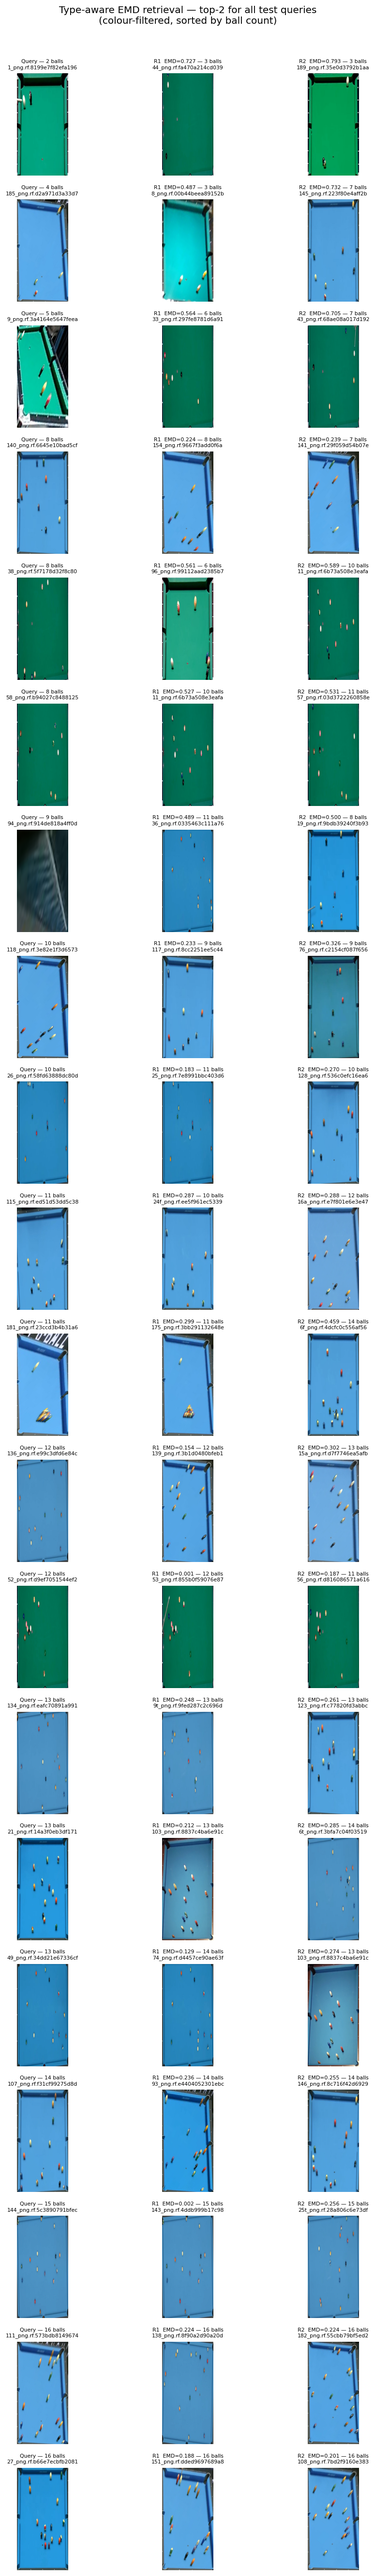
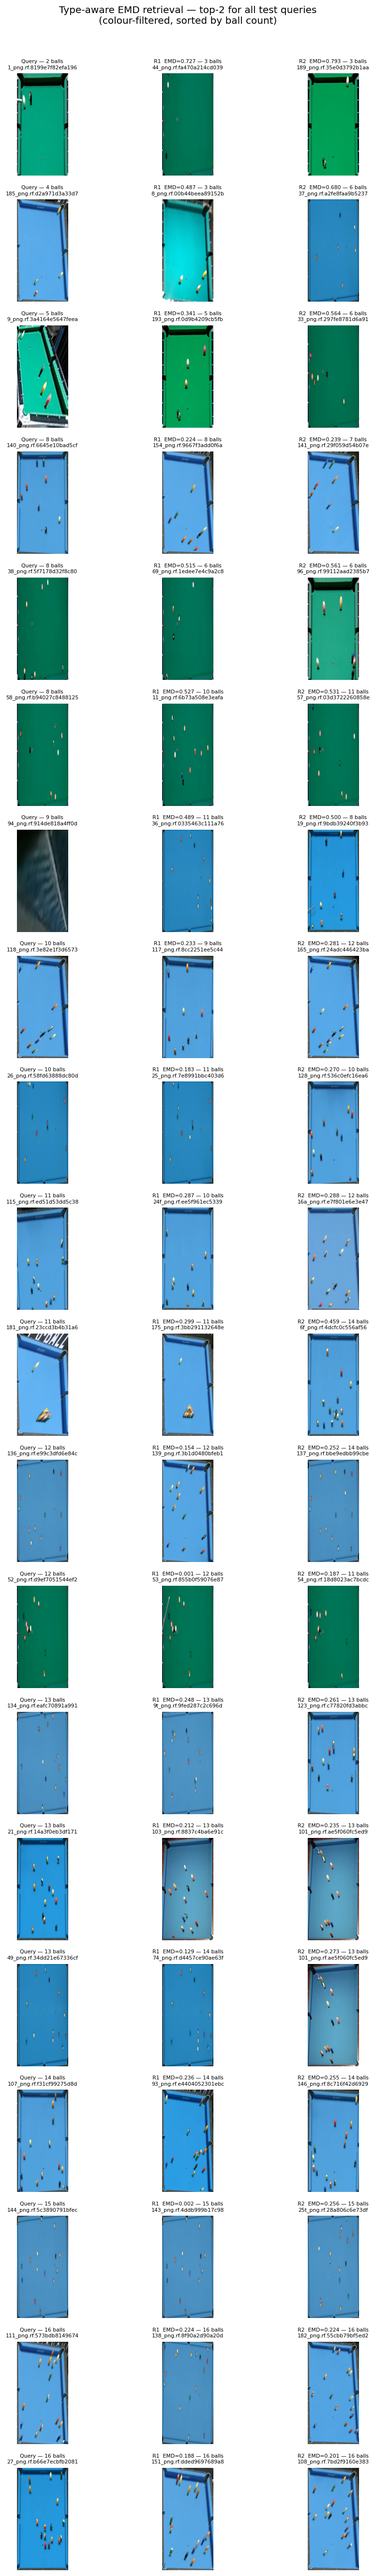
e4, task 3.2 with triplets

diff --git a/models/eval.py b/models/eval.py
@@ -1,0 +1,97 @@
+"""
+Task 2 — Evaluation script.
+
+Compares model predictions (output JSON) against ground-truth CSV and writes
+a metrics CSV with one row per image plus a summary row at the end.
+
+Usage:
+    python models/eval.py \
+        --predictions models/output.json \
+        --ground-truth data/ground_truth.csv \
+        --output models/json_metrics.csv
+"""
+
+import argparse
+import csv
+import json
+from pathlib import Path
+
+
+def evaluate(predictions_json: str, ground_truth_csv: str, output_csv: str) -> None:
+    # ── Load predictions ───────────────────────────────────────────────────────
+    with open(predictions_json) as f:
+        pred_data = json.load(f)
+    preds = {Path(r["image_path"]).name: int(r["num_balls"]) for r in pred_data}
+
+    # ── Load ground truth ──────────────────────────────────────────────────────
+    gt = {}
+    with open(ground_truth_csv) as f:
+        for row in csv.DictReader(f):
+            gt[row["image_id"]] = int(row["num_balls"])
+
+    # ── Match and compute per-image metrics ───────────────────────────────────
+    rows = []
+    unmatched = []
+    for name, pred in sorted(preds.items()):
+        if name not in gt:
+            unmatched.append(name)
+            continue
+        true     = gt[name]
+        error    = pred - true
+        abs_err  = abs(error)
+        rows.append({
+            "image_id":   name,
+            "true_count": true,
+            "pred_count": pred,
+            "error":      error,
+            "abs_error":  abs_err,
+            "exact":      int(abs_err == 0),
+            "off1":       int(abs_err <= 1),
+        })
+
+    if unmatched:
+        print(f"Warning: {len(unmatched)} predictions had no ground-truth match: {unmatched}")
+
+    n         = len(rows)
+    mae       = sum(r["abs_error"] for r in rows) / n
+    exact     = sum(r["exact"]     for r in rows) / n
+    off1      = sum(r["off1"]      for r in rows) / n
+    mean_err  = sum(r["error"]     for r in rows) / n
+
+    # ── Write CSV ──────────────────────────────────────────────────────────────
+    fields = ["image_id", "true_count", "pred_count", "error", "abs_error", "exact", "off1"]
+
+    with open(output_csv, "w", newline="") as f:
+        writer = csv.DictWriter(f, fieldnames=fields)
+        writer.writeheader()
+        writer.writerows(rows)
+        # Summary row
+        writer.writerow({
+            "image_id":   f"SUMMARY ({n} images)",
+            "true_count": "",
+            "pred_count": "",
+            "error":      f"{mean_err:+.4f}",
+            "abs_error":  f"{mae:.4f}",
+            "exact":      f"{exact:.2%}",
+            "off1":       f"{off1:.2%}",
+        })
+
+    print(f"Images evaluated : {n}")
+    print(f"MAE              : {mae:.4f}")
+    print(f"Exact accuracy   : {exact:.2%}")
+    print(f"Off-by-1         : {off1:.2%}")
+    print(f"Mean signed error: {mean_err:+.4f}")
+    print(f"Metrics written  : {output_csv}")
+
+
+if __name__ == "__main__":
+    parser = argparse.ArgumentParser(description="Task 2 — Evaluation")
+    parser.add_argument("--predictions",  default="models/output.json",
+                        help="Path to model output JSON")
+    parser.add_argument("--ground-truth", default="data/ground_truth.csv",
+                        help="Path to ground-truth CSV")
+    parser.add_argument("--output",       default="models/json_metrics.csv",
+                        help="Path for output metrics CSV")
+    args = parser.parse_args()
+
+    evaluate(args.predictions, args.ground_truth, args.output)
